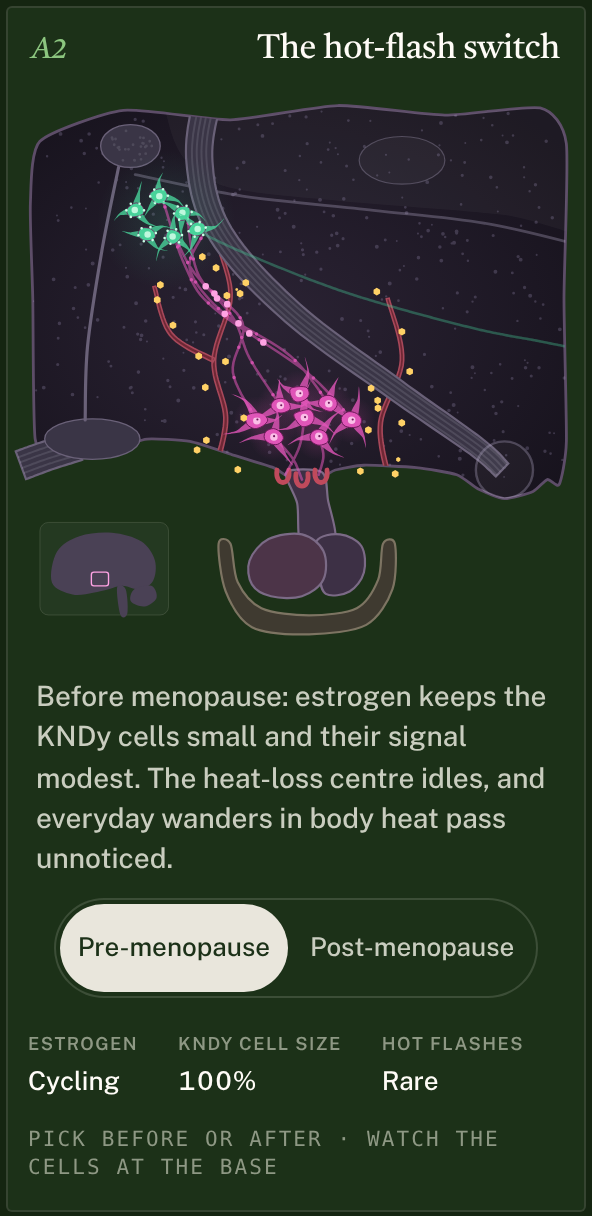
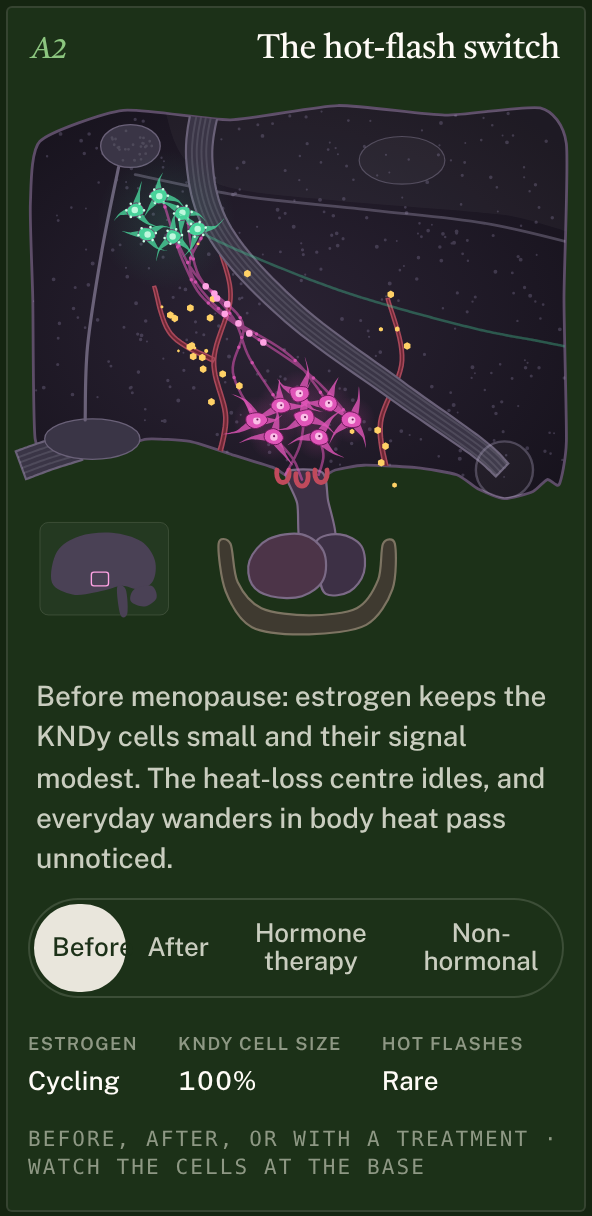
A2 treatments, protocol alignment for A9, InBody sheet check
A2 (round 2): two treatment states, by class only and framed as the
Optimal Menopause Protocol frames them: hormone therapy (estrogen back,
KNDy cells quieten) and a non-hormonal neurokinin-receptor blocker (the
cells keep signalling, the heat-loss centre's receptors grey out and it
never tips). Caption: not for everyone, safety review, not treating is
always an option; mechanism, not an expected result. Magnitudes marked
ILLUSTRATIVE in the truth pack; no drug names or trial numbers on screen.

A9: caption now uses the protocol's own Greendale 2012 wording (7 % spine,
6 % hip in the three fastest years; 10 % spine over ten years); stays
mechanism-only, as the protocol doesn't present HT as bone protection.

Fig 2: InBodyCanada's result-sheet guide shows reactance only in the
optional whole-body BIVA graph, no segmental Xc readout: open issue closed.

Verified A2 at 390/360/320 both themes and reduced motion; clean console.

Claude-Session: https://claude.ai/code/session_01BGndyyGpXNQbxpF4TgwG4g

diff --git a/figures/a2-hypothalamus/live.js b/figures/a2-hypothalamus/live.js
@@ -36,6 +36,7 @@ function mount(fig) {
 
   // ---------------------------------------------------------------- state
   let target = 1;
+  let block = false; // a neurokinin-receptor blocker: the signal arrives but isn't received
   let e = 1;
   let clock = 0;
   let sinceBurst = 0;
@@ -76,7 +77,7 @@ function mount(fig) {
       const p = packets[i];
       p.s += dt * 150;
       if (p.s >= p.m.L) {
-        if (p.mn) drive += KNDY.k;
+        if (p.mn) drive += KNDY.k * (block ? KNDY.blocked : 1);
         packets.splice(i, 1);
       }
     }
@@ -186,12 +187,14 @@ function mount(fig) {
 
   // ---------------------------------------------------------------- input, tour, loop
   function setState(i, quiet) {
-    target = i === 0 ? 1 : 0;
+    // 0 before, 1 after, 2 hormone therapy (estrogen replaced), 3 non-hormonal blocker
+    target = [1, 0, KNDY.therapy, 0][i];
+    block = i === 3;
+    svg.classList.toggle("a2-blocked", block);
     const s = kndyOf(target);
-    const rate = DATA.rate[i];
-    out.estro.textContent = i === 0 ? "Cycling" : "Low";
-    out.size.textContent = `${Math.round(100 * s.area)}%`;
-    out.rate.textContent = rate < 0.05 ? "Rare" : `≈ ${rate.toFixed(1)} an hour`;
+    out.estro.textContent = ["Cycling", "Low", "Replaced", "Low"][i];
+    out.size.textContent = i === 2 ? "Smaller" : `${Math.round(100 * s.area)}%`;
+    out.rate.textContent = i < 2 ? (DATA.rate[i] < 0.05 ? "Rare" : `≈ ${DATA.rate[i].toFixed(1)} an hour`) : "Fewer, typically";
     line.textContent = DATA.lines[i];
     buttons.forEach((b, j) => {
       b.setAttribute("aria-checked", j === i ? "true" : "false");
@@ -252,7 +255,7 @@ function mount(fig) {
     if (!touring && now - idle > 9000) touring = true;
     if (touring && (tourClock += dt) > 12) {
       tourClock = 0;
-      stateAt = 1 - stateAt;
+      stateAt = (stateAt + 1) % 4;
       setState(stateAt, true);
     }
     step(dt);

diff --git a/figures/a2-hypothalamus/figure.css b/figures/a2-hypothalamus/figure.css
@@ -72,3 +72,5 @@
 .a2-par { display: block; margin-top: 6px; }
 .a2-par:first-child { margin-top: 0; }
 .a2-par small { font-size: 12.5px; color: var(--anatomy-muted); }
+.a2-blocked .a2-rec { fill: var(--a2-edge); opacity: 0.55; }
+.a2-blocked .a2-mn { filter: saturate(0.55); }

diff --git a/reference/truth-pack.md b/reference/truth-pack.md
@@ -202,7 +202,7 @@ The InBody 580 sends a tiny alternating current (200 µA) through the body from 
 | Measurement frequencies | **5, 50, 250, 500** (4 frequencies, *not* 3) | kHz | [1][2][3] | HIGH (one regional page, au.inbody.com, lists only 5/50/500 while still saying "20 measurements … 4 frequencies"; treat it as a typo) |
 | Impedance measurements | 20 = 4 frequencies × 5 segments (RA, LA, TR, RL, LL) | count | [1][2][3] | HIGH |
 | Phase angle measurements | 5 segmental phase angles **at 50 kHz only**, plus whole-body phase angle at 50 kHz | count, ° | [2][4][5] | HIGH for 50 kHz segmental and whole-body. The 580 does not report phase angle at other frequencies. |
-| Reactance (Xc) as a printed output | Not confirmed for the 580. The 770 prints segmental Xc; for the 580 I found only impedance (Z) per segment per frequency, plus phase angle. | — | [5][6] | LOW. Don't show "580 reactance readout" without checking. |
+| Reactance (Xc) as a printed output | Not confirmed for the 580. The 770 prints segmental Xc; for the 580 I found only impedance (Z) per segment per frequency, plus phase angle. | — | [5][6] | LOW. Don't show "580 reactance readout" without checking. **Update 2026-10-12:** InBodyCanada's result-sheet guide (PDF from Peter) lists an optional whole-body BIVA graph built from raw R and Xc, plus segmental ECW and ICW analysis, and no segmental reactance readout. |
 | Measurement method | DSM-BIA (direct segmental multi-frequency BIA) + SMF-BIA (simultaneous multi-frequency) | — | [2] | HIGH |
 | Electrode system | Tetrapolar 8-point tactile electrodes: palm + thumb on each hand grip, front sole + heel on each foot | — | [2][7] | HIGH |
 | Electrode roles | Current enters at the palm and front-sole electrodes. Voltage is sensed at the thumb and heel, so measurement starts at the wrist and ankle whatever the grip. | — | [7] | MEDIUM (InBody's own technology page) |
@@ -1232,6 +1232,10 @@ Uses §1 rows 60–64 and sources 23–30 (Rance & Young 1991; Rometo 2007; Ranc
 - **More NKB signalling after menopause** (gene expression up, hypertrophy) [Rance & Young 1991][Rometo 2007] is drawn as twice the burst rate and twice the packets. ILLUSTRATIVE: no human firing rates exist.
 - **NKB → NK3R in the MnPO drives heat loss** [Rance 2013][Mittelman-Smith 2012][Dacks 2011]; NKB infusion causes flushes in women [Jayasena 2015]. These are drawn as the drive that tips the heat-loss centre.
 - **Hot-flash rate readout** comes from Fig 1's `rateOf(e)`: ≈ 1.1 an hour symptomatic [Meldrum 1979; Freedman 1998; Low 2008].
+- **Treatment states (added 2026-10-12, Peter: "can include treatments on screen"):** class names only, framed as the Menopause Protocol frames them ("where appropriate", "isn't for everyone", safety review first, not treating is always an option).
+  - *Hormone therapy:* estrogen state e = 0.85, ILLUSTRATIVE. Estrogen reverses KNDy hypertrophy in ovariectomised monkeys [Rometo 2007], and estradiol raises the sweating threshold ≈ +0.16 °C [Freedman & Blacker 2002].
+  - *Non-hormonal neurokinin-receptor blocker:* the cells keep signalling (e = 0), and the heat-loss centre receives 20 % of it, ILLUSTRATIVE. The mechanism is [Rance 2013]; there are no threshold data. Fezolinetant (NK3) and elinzanetant (NK1+NK3) are authorized in Canada (§1), but they are not named on screen.
+  - *Readout:* "Fewer, typically". No trial numbers are printed (§1 keeps them NOTES-only).
 
 ---
 
@@ -1256,6 +1260,7 @@ Uses §4: Lenhart 2014 peak patellofemoral force −14 % at 110 % step rate (and
 | Estrogen promotes osteoclast apoptosis and inhibits their differentiation | qualitative | [Est-R] | MEDIUM |
 | SWAN: fastest BMD loss from 1 year before to 2 years after the final menstrual period | ≈ 2.5 %/yr lumbar spine, ≈ 1.8 %/yr femoral neck | [SWAN-R] | MEDIUM-HIGH |
 | SWAN: average loss over the 3 years around the final period | ≈ 6 % femoral neck, ≈ 7 % lumbar spine | [SWAN-3] | MEDIUM-HIGH |
+| Same, as the Optimal Menopause Protocol states it (v1.0 §3, §7) | about 7 % spine and 6 % hip in the three fastest years; about 10 % spine over ten years | Greendale 2012 (SWAN), as cited in the protocol | MEDIUM-HIGH |
 | Lower body weight → faster loss (lowest vs highest tertile 35–55 % faster) | — | [SWAN-3] | MEDIUM (not shown) |
 
 ### How A9 uses these numbers

diff --git a/figures/a2-hypothalamus/NOTES.md b/figures/a2-hypothalamus/NOTES.md
@@ -4,6 +4,12 @@
 
 **Mapping in one sentence:** switch between pre- and post-menopause. Estrogen molecules leaving the vessels thin out. The KNDy cells at the base swell to 194 % of their area and burst twice as often, sending more neurokinin B up their axons. The heat-loss centre's drive (the green glow) then sits near its tipping point, and the drawn natural wander tips it into a hot flash: it turns orange and fires a heat-loss train toward the brainstem.
 
+**Round 2 (2026-10-12, Peter: "can include treatments on screen"):** two states are added, by drug class only and framed as the Menopause Protocol frames them:
+- **Hormone therapy:** estrogen comes back, the KNDy cells shrink and quieten, and the heat-loss centre moves off its edge.
+- **Non-hormonal:** a neurokinin-receptor blocker. The cells keep signalling, but the heat-loss centre's receptors are greyed and receive only a fifth of it, so it never tips.
+
+The caption adds: "Neither is for everyone… safety review… not treating is always an option" and "the drawing shows the mechanism, not an expected result". Both magnitudes are ILLUSTRATIVE (truth pack, "A2").
+
 ## Parts
 
 - **Slice:** grey-matter slab with glial speckle; the anterior commissure; the fornix arching down to the mammillary body; the lamina terminalis; the optic chiasm and nerve stump; the hypothalamic sulcus with the thalamus above it and its adhesion; small vessels.
@@ -57,5 +63,5 @@
 ## Open for Peter
 
 1. **Inset or standalone?** It's built as its own card. It can sit under Fig 1 as "what's happening inside the thermostat".
-2. **Treatment button** (Q2): hormone therapy (estrogen back, cells calm) and a neurokinin-receptor blocker (signal sent but not received), class names only.
+2. **Treatment buttons:** done (round 2). Drug names are deliberately left off.
 3. **The 194 %** comes from a secondary listing of Rance & Young 1991. Check it against the paper before quoting the number on a page; the readout could say "larger" instead.

diff --git a/figures/06-vo2max-treadmill/NOTES.md b/figures/06-vo2max-treadmill/NOTES.md
@@ -10,6 +10,14 @@
 
 **Mapping in one sentence:** the belt speeds up a little every few seconds while the mannequin runs in a mask whose wireless analyser blinks each breath. The assessor's tablet plots oxygen uptake against speed: a straight line at about 3.5 ml/kg/min per km/h (at a 1 % incline) that flattens at the ceiling. The display still draws the live skeleton, and the side panel shows the belt speed.
 
+**Round 2 (2026-10-12, Peter: "simple mockup is good, whatever is visually cleaner"):** the Creator screen is now a clean live dashboard:
+- a "Live" dot pulsing with the stride, and the test clock;
+- the belt speed as the hero number;
+- the tracked skeleton standing on a floor line;
+- three tiles: cadence (the model's `cadenceAt(speed)`, sourced, §4 [18]), step length (speed ÷ cadence) and grade (1 %).
+
+It's a generic UI, not a copy of the Creator software. Audit passed and `lines.mjs` reports 0; all captures are retaken.
+
 ## Numbers
 
 All in `reference/truth-pack.md` §5, under "How Fig 6 uses these numbers".

diff --git a/figures/a9-bone-remodelling/NOTES.md b/figures/a9-bone-remodelling/NOTES.md
@@ -55,5 +55,5 @@ Calibration targets are SWAN's ≈ 2–2.5 %/yr at the spine (1.8 % at the femor
 
 ## Open for Peter
 
-1. **Must match the Menopause Protocol** (BACKLOG). The protocol text isn't in this repo; please check the caption against it, especially "Loss slows after that" and the SWAN numbers.
-2. **A hormone-therapy state** (estrogen back, sites fewer) would show the mechanism of protection. It's held back for the same Q2 regulatory call as Fig 1's treatment switch.
+1. **Menopause Protocol match:** checked against the protocol PDF (v1.0, §3 and §7). The caption now uses its wording and numbers from Greendale 2012: fastest from about a year before to about two years after the final period; about 7 % spine and 6 % hip in those three years; about 10 % spine over ten years.
+2. **No treatment state, by design.** Peter allowed treatments on screen, but the protocol doesn't present hormone therapy as bone protection: it covers bone as screening and strength training. A9 stays mechanism-only to match.

diff --git a/figures/02-inbody-580/NOTES.md b/figures/02-inbody-580/NOTES.md
@@ -48,6 +48,6 @@ Frequency buttons (5 / 50 / 250 / 500 kHz) and segment buttons (Arm / Trunk / Le
 
 ## Open issues
 
-1. **Verify against the real result sheet and manual:** whether the 580 prints segmental reactance (not shown here), the exact trunk ohms it reports, and the manual's wording on implanted devices before any copy mentions safety.
+1. **Result sheet (checked 2026-10-12 against InBodyCanada's interpretation guide):** no segmental reactance readout; reactance appears only in the optional whole-body BIVA graph, so Fig 2 rightly prints none. Still to verify against the manual: the exact trunk ohms it reports, and the manual's wording on implanted devices before any copy mentions safety.
 2. **Optional scenario switch** for ECW/TBW (see Decisions).
 3. **Left limbs** are mostly hidden behind the trunk from this angle. If Peter wants all five visible, the body can be turned toward the viewer, at the cost of a less true InBody stance.
